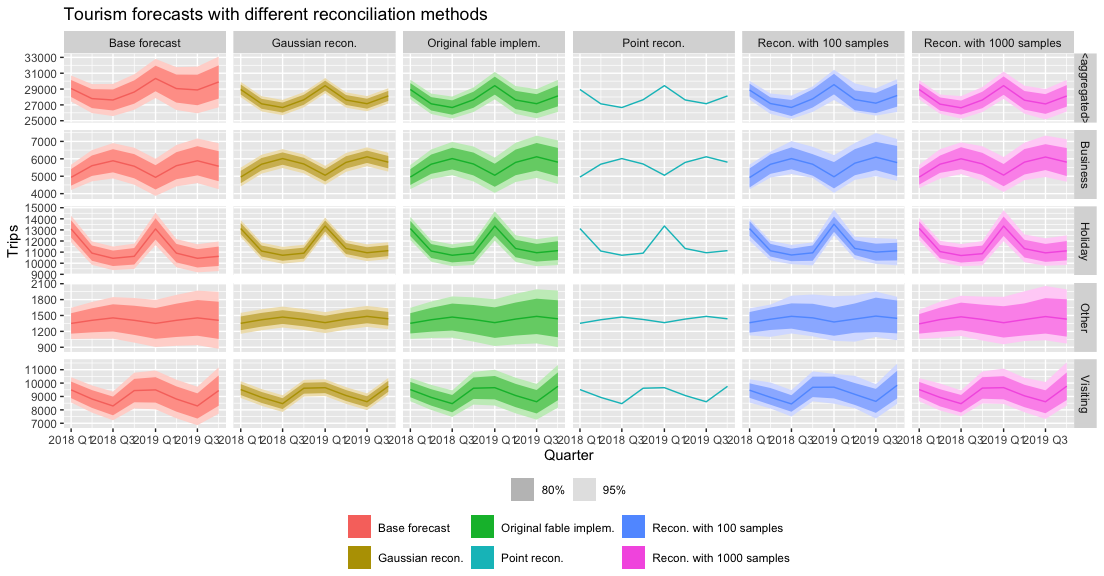
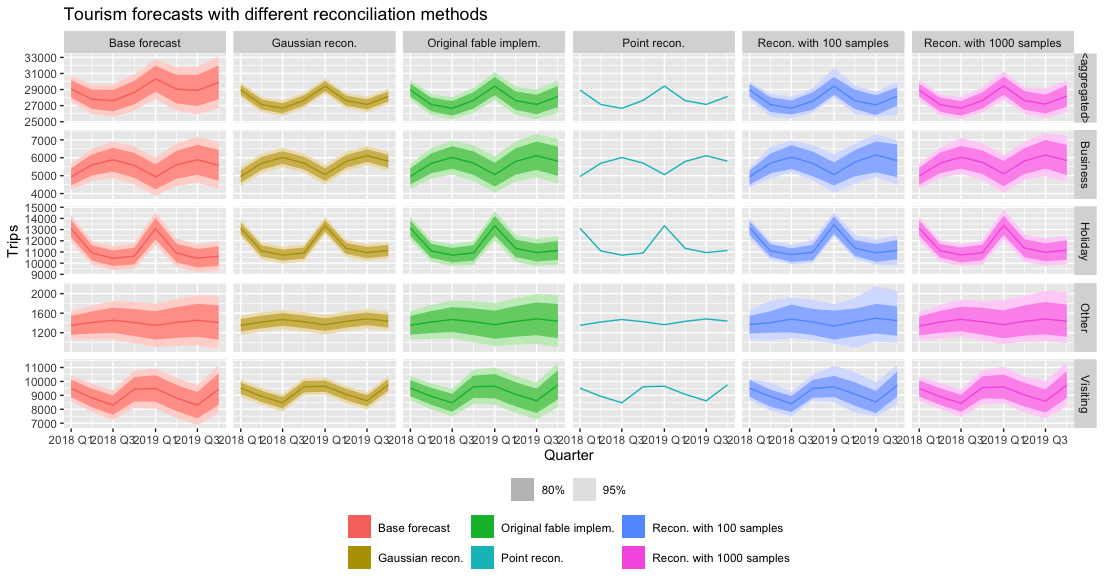
Add description and fix documentation

diff --git a/docs/index.html b/docs/index.html
@@ -64,7 +64,7 @@
 </div>
 <!--[![R-CMD-check](https://github.com/danigiro/tidyreco/actions/workflows/R-CMD-check.yaml/badge.svg)](https://github.com/danigiro/tidyreco/actions/workflows/R-CMD-check.yaml) -->
 <p><a href="https://CRAN.R-project.org/package=tidyreco" class="external-link"><img src="https://www.r-pkg.org/badges/version/tidyreco" alt="CRAN status"></a> <a href="https://github.com/danigiro/tidyreco" class="external-link"><img src="https://img.shields.io/badge/devel%20version-0.0.0.9000-blue.svg" alt="devel version"></a> <a href="https://cran.r-project.org/web/licenses/GPL-3" class="external-link"><img src="https://img.shields.io/badge/license-GPL--3-forestgreen.svg" alt="License: GPL-3"></a></p>
-<p>The goal of tidyreco is to …</p>
+<p>The R package <strong>tidyreco</strong> provides tools for forecast reconciliation of hierarchical and grouped time series. It integrates the reconciliation methods available in the <strong>FoReco</strong> package into the <a href="https://fable.tidyverts.org/" class="external-link">fable</a> and <a href="https://fabletools.tidyverts.org/" class="external-link">fabletools</a> framework.</p>
 <div class="section level2">
 <h2 id="installation">Installation<a class="anchor" aria-label="anchor" href="#installation"></a>
 </h2>
@@ -81,7 +81,7 @@
 </h2>
 <div class="sourceCode" id="cb3"><pre class="downlit sourceCode r">
 <code class="sourceCode R"><span><span class="kw"><a href="https://rdrr.io/r/base/library.html" class="external-link">library</a></span><span class="op">(</span><span class="va"><a href="https://fable.tidyverts.org" class="external-link">fable</a></span><span class="op">)</span></span>
-<span><span class="kw"><a href="https://rdrr.io/r/base/library.html" class="external-link">library</a></span><span class="op">(</span><span class="va">tidyreco</span><span class="op">)</span></span>
+<span><span class="kw"><a href="https://rdrr.io/r/base/library.html" class="external-link">library</a></span><span class="op">(</span><span class="va"><a href="https://github.com/danigiro/tidyreco" class="external-link">tidyreco</a></span><span class="op">)</span></span>
 <span><span class="kw"><a href="https://rdrr.io/r/base/library.html" class="external-link">library</a></span><span class="op">(</span><span class="va"><a href="https://ggplot2.tidyverse.org" class="external-link">ggplot2</a></span><span class="op">)</span></span>
 <span></span>
 <span><span class="va">data</span> <span class="op">&lt;-</span> <span class="fu">tsibble</span><span class="fu">::</span><span class="va"><a href="https://tsibble.tidyverts.org/reference/tourism.html" class="external-link">tourism</a></span> <span class="op">|&gt;</span></span>
@@ -118,7 +118,15 @@
 <p><img src="reference/figures/README-example-1.png" alt="Tourism forecasts with different reconciliation methods" width="200%"></p>
 </div>
 </div>
-  </main><aside class="col-md-3"><div class="license">
+  </main><aside class="col-md-3"><div class="links">
+<h2 data-toc-skip>Links</h2>
+<ul class="list-unstyled">
+<li><a href="https://github.com/danigiro/tidyreco/" class="external-link">Browse source code</a></li>
+<li><a href="https://github.com/danigiro/tidyreco/issues" class="external-link">Report a bug</a></li>
+</ul>
+</div>
+
+<div class="license">
 <h2 data-toc-skip>License</h2>
 <ul class="list-unstyled">
 <li><a href="https://www.r-project.org/Licenses/GPL-3" class="external-link">GPL-3</a></li>

diff --git a/docs/reference/tidyreco-package.html b/docs/reference/tidyreco-package.html
@@ -34,7 +34,7 @@
 <div class="row">
   <main id="main" class="col-md-9"><div class="page-header">
       <img src="../logo.svg" class="logo" alt=""><h1>tidyreco: Tidy Forecast Reconciliation</h1>
-
+      <small class="dont-index">Source: <a href="https://github.com/danigiro/tidyreco/blob/HEAD/R/tidyreco-package.R" class="external-link"><code>R/tidyreco-package.R</code></a></small>
       <div class="d-none name"><code>tidyreco-package.Rd</code></div>
     </div>
 
@@ -44,11 +44,19 @@
 
 
     <div class="section level2">
+    <h2 id="see-also">See also<a class="anchor" aria-label="anchor" href="#see-also"></a></h2>
+    <div class="dont-index"><p>Useful links:</p><ul><li><p><a href="https://github.com/danigiro/tidyreco" class="external-link">https://github.com/danigiro/tidyreco</a></p></li>
+<li><p><a href="https://danigiro.github.io/tidyreco/">https://danigiro.github.io/tidyreco/</a></p></li>
+<li><p>Report bugs at <a href="https://github.com/danigiro/tidyreco/issues" class="external-link">https://github.com/danigiro/tidyreco/issues</a></p></li>
+</ul></div>
+    </div>
+    <div class="section level2">
     <h2 id="author">Author<a class="anchor" aria-label="anchor" href="#author"></a></h2>
     <p><strong>Maintainer</strong>: Daniele Girolimetto <a href="mailto:daniele.girolimetto@unipd.it">daniele.girolimetto@unipd.it</a> (<a href="https://orcid.org/0000-0001-9387-1232" class="external-link">ORCID</a>)</p>
     </div>
 
-  </main></div>
+  </main><aside class="col-md-3"><nav id="toc" aria-label="Table of contents"><h2>On this page</h2>
+    </nav></aside></div>
 
 
     <footer><div class="pkgdown-footer-left">

diff --git a/docs/reference/index.html b/docs/reference/index.html
@@ -37,7 +37,24 @@
     </div>
 
     <div class="section level2">
-      <h2 id="all-functions">All functions<a class="anchor" aria-label="anchor" href="#all-functions"></a></h2>
+      <h2 id="overview">Overview<a class="anchor" aria-label="anchor" href="#overview"></a></h2>
+
+
+
+
+    </div><div class="section level2">
+
+
+
+
+      <dl><dt>
+
+          <code><a href="tidyreco-package.html">tidyreco</a></code> <code><a href="tidyreco-package.html">tidyreco-package</a></code>
+
+        </dt>
+        <dd>tidyreco: Tidy Forecast Reconciliation</dd>
+      </dl></div><div class="section level2">
+      <h2 id="cross-secional-forecast-reconciliation">Cross-secional forecast reconciliation<a class="anchor" aria-label="anchor" href="#cross-secional-forecast-reconciliation"></a></h2>
 
 
 
@@ -66,7 +83,8 @@
         </dt>
         <dd>Cross-sectional probabilistic reconciliation (sample approach)</dd>
       </dl></div>
-  </main></div>
+  </main><aside class="col-md-3"><nav id="toc" aria-label="Table of contents"><h2>On this page</h2>
+    </nav></aside></div>
 
 
     <footer><div class="pkgdown-footer-left">

diff --git a/docs/authors.html b/docs/authors.html
@@ -47,17 +47,18 @@
 
     <div class="section level2">
       <h2 id="citation">Citation</h2>
-      <p></p>
+      <p><small class="dont-index">Source: <a href="https://github.com/danigiro/tidyreco/blob/HEAD/DESCRIPTION" class="external-link"><code>DESCRIPTION</code></a></small></p>
 
       <p>Girolimetto D (2025).
 <em>tidyreco: Tidy Forecast Reconciliation</em>.
-R package version 0.0.0.9000.
+R package version 0.0.0.9000, <a href="https://github.com/danigiro/tidyreco" class="external-link">https://github.com/danigiro/tidyreco</a>.
 </p>
       <pre>@Manual{,
   title = {tidyreco: Tidy Forecast Reconciliation},
   author = {Daniele Girolimetto},
   year = {2025},
   note = {R package version 0.0.0.9000},
+  url = {https://github.com/danigiro/tidyreco},
 }</pre>
     </div>
 

diff --git a/docs/news/index.html b/docs/news/index.html
@@ -34,12 +34,12 @@
 <div class="row">
   <main id="main" class="col-md-9"><div class="page-header">
       <img src="../logo.svg" class="logo" alt=""><h1>Changelog</h1>
-
+      <small>Source: <a href="https://github.com/danigiro/tidyreco/blob/HEAD/NEWS.md" class="external-link"><code>NEWS.md</code></a></small>
     </div>
 
     <div class="section level2">
 <h2 class="pkg-version" data-toc-text="development version" id="tidyreco-development-version">tidyreco (development version)<a class="anchor" aria-label="anchor" href="#tidyreco-development-version"></a></h2>
-<ul><li>Initial CRAN submission.</li>
+<ul><li>Initial GitHub submission.</li>
 </ul></div>
   </main></div>
 

diff --git a/docs/reference/tidy_cssmp.html b/docs/reference/tidy_cssmp.html
@@ -38,7 +38,7 @@ sums. Forecasted time points must match for all series in the hierarchy."><meta 
 <div class="row">
   <main id="main" class="col-md-9"><div class="page-header">
       <img src="../logo.svg" class="logo" alt=""><h1>Cross-sectional probabilistic reconciliation (sample approach)</h1>
-
+      <small class="dont-index">Source: <a href="https://github.com/danigiro/tidyreco/blob/HEAD/R/tidy_smp.R" class="external-link"><code>R/tidy_smp.R</code></a></small>
       <div class="d-none name"><code>tidy_cssmp.Rd</code></div>
     </div>
 

diff --git a/docs/reference/tidy_csmvn.html b/docs/reference/tidy_csmvn.html
@@ -38,7 +38,7 @@ sums. Forecasted time points must match for all series in the hierarchy."><meta 
 <div class="row">
   <main id="main" class="col-md-9"><div class="page-header">
       <img src="../logo.svg" class="logo" alt=""><h1>Cross-sectional Gaussian probabilistic reconciliation</h1>
-
+      <small class="dont-index">Source: <a href="https://github.com/danigiro/tidyreco/blob/HEAD/R/tidy_mvn.R" class="external-link"><code>R/tidy_mvn.R</code></a></small>
       <div class="d-none name"><code>tidy_csmvn.Rd</code></div>
     </div>
 

diff --git a/docs/reference/tidy_csrec.html b/docs/reference/tidy_csrec.html
@@ -38,7 +38,7 @@ sums. Forecasted time points must match for all series in the hierarchy."><meta 
 <div class="row">
   <main id="main" class="col-md-9"><div class="page-header">
       <img src="../logo.svg" class="logo" alt=""><h1>Optimal combination cross-sectional reconciliation</h1>
-
+      <small class="dont-index">Source: <a href="https://github.com/danigiro/tidyreco/blob/HEAD/R/tidy_opt.R" class="external-link"><code>R/tidy_opt.R</code></a></small>
       <div class="d-none name"><code>tidy_csrec.Rd</code></div>
     </div>
 

diff --git a/README.md b/README.md
@@ -12,7 +12,11 @@ version](https://img.shields.io/badge/devel%20version-0.0.0.9000-blue.svg)](http
 [![License:
 GPL-3](https://img.shields.io/badge/license-GPL--3-forestgreen.svg)](https://cran.r-project.org/web/licenses/GPL-3)
 
-The goal of tidyreco is to …
+The R package **tidyreco** provides tools for forecast reconciliation of
+hierarchical and grouped time series. It integrates the reconciliation
+methods available in the [FoReco](https://danigiro.github.io/FoReco)
+package into the [fable](https://fable.tidyverts.org/) and
+[fabletools](https://fabletools.tidyverts.org/) framework.
 
 ## Installation
 

diff --git a/NEWS.md b/NEWS.md
@@ -1,3 +1,3 @@
 # tidyreco (development version)
 
-* Initial CRAN submission.
+* Initial GitHub submission.
